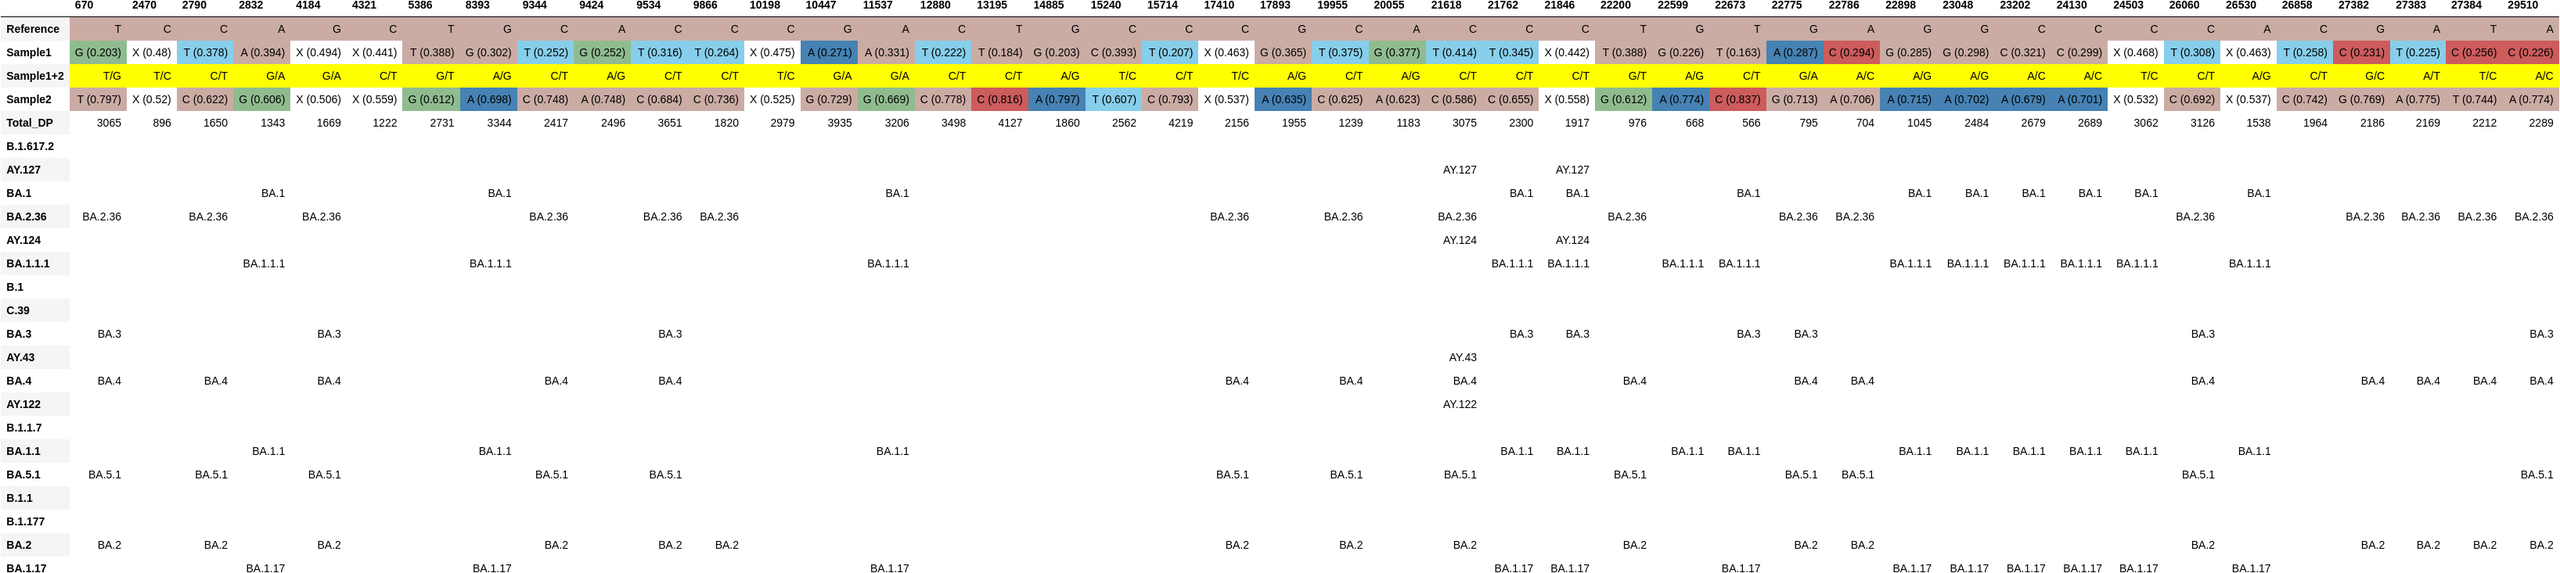
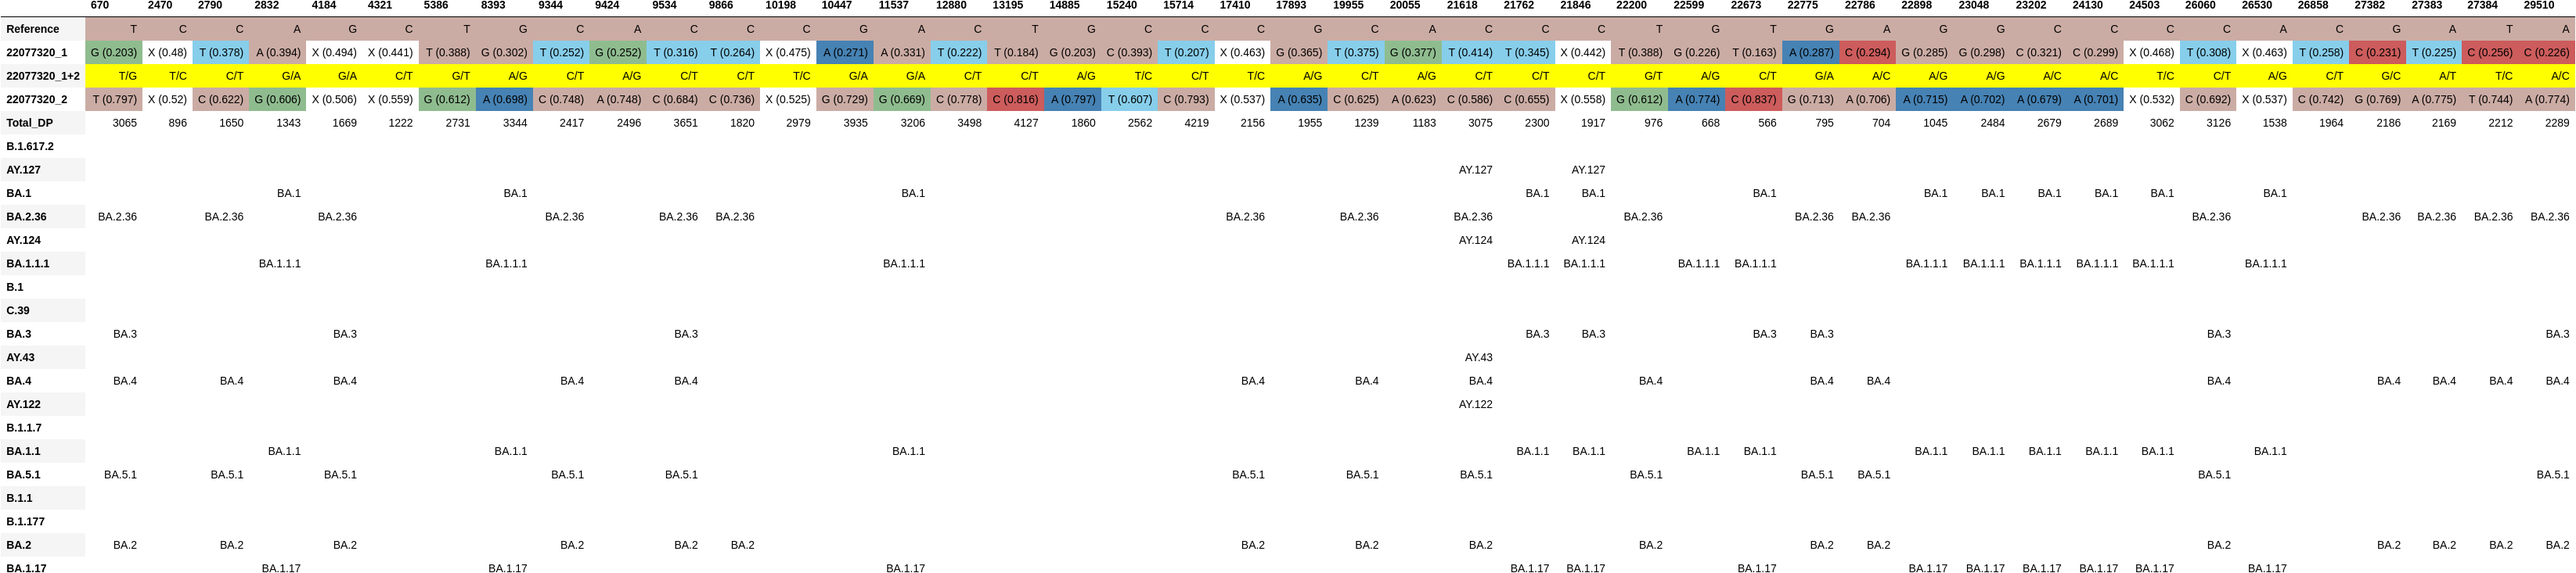
rename header fasta files 15/09/22

diff --git a/mixtas.py b/mixtas.py
@@ -190,25 +190,27 @@ def get_alingment(args, script_dir, name_tsv, HTZ_SNVs, HOM_SNVs, df, mutations)
     utils.check_create_dir(out_seq_dir)
 
     # Sample1
-    sample1 = open(out_seq_dir + "/Sample1.fasta", "w")
-    to_write = ">Sample1\n" + "".join(sequences[0]) + "\n"
+    sample1 = open(out_seq_dir + "/" + dir_name_tsv + "_1.fasta", "w")
+    to_write = ">" + name_tsv + "_1\n" + "".join(sequences[0]) + "\n"
     sample1.write(to_write)
     sample1.close()
 
     if args.pangolin:
-        subprocess.run(["pangolin", out_seq_dir + "/Sample1.fasta", "--outdir", out_seq_dir,
-                            "--outfile", "Sample1_pangolin.csv",
+        subprocess.run(["pangolin", out_seq_dir + "/" + dir_name_tsv + "_1.fasta",
+                             "--outdir", out_seq_dir,
+                            "--outfile", dir_name_tsv + "_1_pangolin.csv",
                             "--max-ambig", "0.6"])
 
     # Sample2
-    sample2 = open(out_seq_dir + "/Sample2.fasta", "w")
-    to_write = ">Sample2\n" + "".join(sequences[2]) + "\n"
+    sample2 = open(out_seq_dir + "/" + dir_name_tsv + "_2.fasta", "w")
+    to_write = ">" + name_tsv + "_2\n" + "".join(sequences[2]) + "\n"
     sample2.write(to_write)
     sample2.close()
 
     if args.pangolin:
-        subprocess.run(["pangolin", out_seq_dir + "/Sample2.fasta", "--outdir", out_seq_dir,
-                            "--outfile", "Sample2_pangolin.csv",
+        subprocess.run(["pangolin", out_seq_dir + "/" + dir_name_tsv + "_2.fasta",
+                             "--outdir", out_seq_dir,
+                            "--outfile", dir_name_tsv + "_2_pangolin.csv",
                             "--max-ambig", "0.6"])
     
     aln2df(args, name_tsv, dir_name_tsv, genomes, l_ref_sequence, df, mutations)
@@ -222,10 +224,11 @@ def aln2df(args, name_tsv, dir_name_tsv, genomes, l_ref_sequence, df, mutations)
     # Convert alingment to dataframe
     coordinates = list(range(1, len(genomes[0]) + 1))
     df_aln = pd.DataFrame([l_ref_sequence] + genomes, columns = coordinates,
-        index=["Reference", "Sample1", "Sample1+2", "Sample2"])
+        index=["Reference", name_tsv + "_1", 
+        name_tsv + "_1+2", name_tsv + "_2"])
     df_aln_t = df_aln.T
-    df_aln_SNV = df_aln_t[(df_aln_t["Reference"] != df_aln_t["Sample1"]) | 
-                    (df_aln_t["Reference"] != df_aln_t["Sample2"])].T
+    df_aln_SNV = df_aln_t[(df_aln_t["Reference"] != df_aln_t[name_tsv + "_1"]) | 
+                    (df_aln_t["Reference"] != df_aln_t[name_tsv + "_2"])].T
     
     # Set position depth
     position_dp = []
@@ -254,8 +257,8 @@ def aln2df(args, name_tsv, dir_name_tsv, genomes, l_ref_sequence, df, mutations)
     
     # Select only HTZ positions in Alingment
     df_concat_t = df_concat.T
-    df_concat_HTZ = df_concat_t[(df_concat_t["Sample1"] != df_concat_t["Sample2"]) &
-                    (df_concat_t["Sample1"] != "X") & (df_concat_t["Sample2"] != "X")]
+    df_concat_HTZ = df_concat_t[(df_concat_t[name_tsv + "_1"] != df_concat_t[name_tsv + "_2"]) &
+                    (df_concat_t[name_tsv + "_1"] != "X") & (df_concat_t[name_tsv + "_2"] != "X")]
     df_concat_HTZ = df_concat_HTZ.T
 
     # Store df
@@ -283,10 +286,10 @@ def compare_episode(args, name_tsv, script_dir):
     l_ref_sequence, header_ref, ref_sequence = utils.parse_fasta(ref_genome)
 
     # Sample1
-    S1_seq_l, header_S1, S1_sequence = utils.parse_fasta(out_seq_dir + "/Sample1.fasta")
+    S1_seq_l, header_S1, S1_sequence = utils.parse_fasta(out_seq_dir + "/" + dir_name_tsv + "_1.fasta")
 
     # Sample2
-    S2_seq_l, header_S2, S2_sequence = utils.parse_fasta(out_seq_dir + "/Sample2.fasta")
+    S2_seq_l, header_S2, S2_sequence = utils.parse_fasta(out_seq_dir + "/" + dir_name_tsv + "_2.fasta")
 
     # d to store other episodes
     d_episodes = {}
